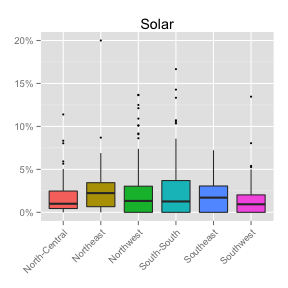
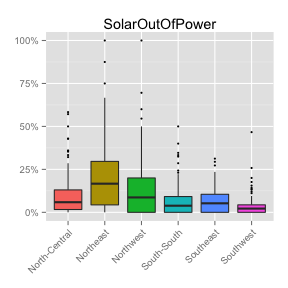
changes with brett and vijay

diff --git a/prabhas/energy-summaries/index.html b/prabhas/energy-summaries/index.html
@@ -145,7 +145,7 @@ Color: problem reported by the highest number of localities in an LGA.</p>
 
       <slide class="" id="slide-9" style="background:;">
   <hgroup>
-    <h2>What % use ...</h2>
+    <h2>Ouf of facilities with power, which use ...</h2>
   </hgroup>
   <article>
     <p><img src="figure/unnamed-chunk-111.png" alt="plot of chunk unnamed-chunk-11"> <img src="figure/unnamed-chunk-112.png" alt="plot of chunk unnamed-chunk-11"> <img src="figure/unnamed-chunk-113.png" alt="plot of chunk unnamed-chunk-11"> <img src="figure/unnamed-chunk-114.png" alt="plot of chunk unnamed-chunk-11"> <img src="figure/unnamed-chunk-115.png" alt="plot of chunk unnamed-chunk-11"> <img src="figure/unnamed-chunk-116.png" alt="plot of chunk unnamed-chunk-11"> </p>
@@ -286,6 +286,19 @@ Color: problem reported by the highest number of localities in an LGA.</p>
   </hgroup>
   <article>
     <p>Modi Research Group, Earth Institute, Columbia University</p>
+
+<p><img src="images/ModiTeam.png" alt=""></p>
+
+  </article>
+  <!-- Presenter Notes -->
+</slide>
+
+      <slide class="" id="slide-21" style="background:;">
+  <hgroup>
+    
+  </hgroup>
+  <article>
+    <p><img src="figure/unnamed-chunk-171.png" alt="plot of chunk unnamed-chunk-17"> <img src="figure/unnamed-chunk-172.png" alt="plot of chunk unnamed-chunk-17"> </p>
 
   </article>
   <!-- Presenter Notes -->
